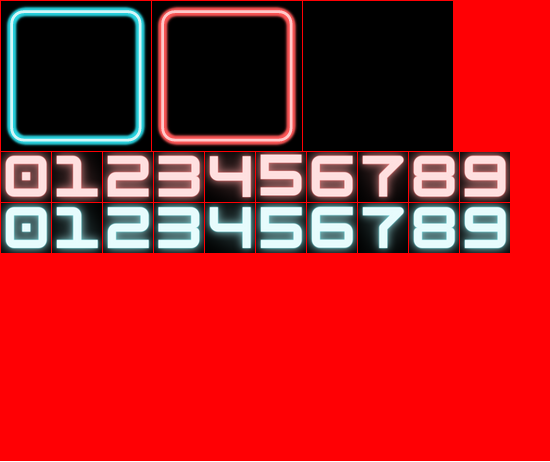
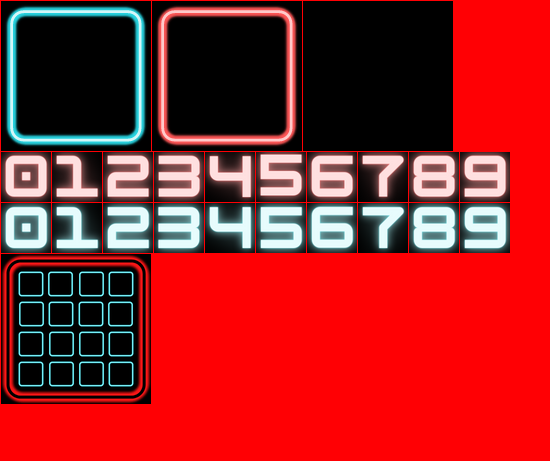
ActionListenerMotion1

Changed region(s): [[0.0, 0.5455, 0.2782, 0.8788]]

diff --git a/src/controller/PuzzleListener.java b/src/controller/PuzzleListener.java
@@ -2,14 +2,16 @@ package controller;
 
 import java.awt.event.ActionEvent;
 import java.awt.event.ActionListener;
+import java.awt.event.KeyEvent;
+import java.awt.event.KeyListener;
 import java.awt.event.MouseEvent;
 import java.awt.event.MouseListener;
 
 import view.BoardGame;
 
-public class PuzzleListener implements MouseListener{
+public class PuzzleListener implements MouseListener, KeyListener{
 	private BoardGame board_game;
-	
+
 	public PuzzleListener(BoardGame board_game) {
 		this.board_game = board_game;
 	}
@@ -19,26 +21,46 @@ public class PuzzleListener implements MouseListener{
 		for(int i=0; i<board_game.getBlock().length; i++) {
 			for(int j=0; j<board_game.getBlock()[0].length;j++) {
 				if(e.getSource() == board_game.getBlock()[i][j]) {
-					System.out.println("Đã click dô số: " + board_game.getBlock()[i][j].getNumber());
+					System.out.println("Đã click dô số: " + board_game.getBlock()[i][j].getNumber()+
+							" Tọa độ: " + i + " " + j + " Lenght :" + board_game.getBlock().length);
 					boolean exist=false;
-					for(int k=i-1 ; k<= i+1;k++) {
-						for(int l=j-1; l<= j+1; l++)
-						{
-							if(k>=0 && k<board_game.getBlock().length && l>=0 && l<board_game.getBlock()[0].length) {
-								
-								if(board_game.getBlock()[k][l].getNumber()==16) {
-									System.out.println("Da co so 16");
-									board_game.getBlock()[k][l].setState("cell_red");
-									board_game.getBlock()[k][l].setNumber(12);
-									board_game.getBlock()[k][l].repaint();
+					// Dò xem 4 góc có block null không
 
-									exist = true;
-							}
-						}
+					/** Trên*/
+					if(i-1>=0) {
+						if(board_game.getBlock()[i-1][j].getNumber() == (board_game.getBlock().length)*(board_game.getBlock()[0].length)) {
+							System.out.println("Có Block Null ở trên");
 						}
 					}
+					/** Dưới*/
+					if(i+1<board_game.getBlock().length) {
+						if(board_game.getBlock()[i+1][j].getNumber() == (board_game.getBlock().length)*(board_game.getBlock()[0].length)) {
+							System.out.println("Có Block Null ở dưới");
+							
+						}
+					}
+					/** Trái*/
+					if(j-1>=0) {
+						if(board_game.getBlock()[i][j-1].getNumber() == (board_game.getBlock().length)*(board_game.getBlock()[0].length)) {
+							System.out.println("Có Block Null bên trái");
+						}
+					}
+					/** Phải*/
+					if(j+1<board_game.getBlock().length) {
+						if(board_game.getBlock()[i][j+1].getNumber() == (board_game.getBlock().length)*(board_game.getBlock()[0].length)) {
+							System.out.println("Có Block Null bên phải");
+							//Lấy Block Null Đổi thuộc tính thành block vừa click
+							//board_game.setAttributeBlock(Block null, lấy thuộc tính right trong block vừa click, lấy thuộc tính state trong block vừa click, lấy thuộc tính number trong block vừa click)
+							board_game.setAttributeBlock(board_game.getBlock()[i][j+1], board_game.getBlock()[i][j].isRight(), board_game.getBlock()[i][j].getState(), board_game.getBlock()[i][j].getNumber());
+							//Lấy Block vừa click, đổi lại thành null
+							//board_game.setAttributeBlock(Block vừa click, phần còn lại y vậy)
+							board_game.setAttributeBlock(board_game.getBlock()[i][j], false, "null_cell", (board_game.getBlock().length)*(board_game.getBlock()[0].length));
+							board_game.getBlock()[i][j+1].repaint();
+						}
+					}
+
 					if(exist == true) {			
-//						String temp=board_game.getBlock()[i][j].;
+						//						String temp=board_game.getBlock()[i][j].;
 						int temp_i = board_game.getBlock()[i][j].getNumber();
 						board_game.getBlock()[i][j].setState("cell_null");
 						board_game.getBlock()[i][j].setNumber(16);
@@ -52,26 +74,61 @@ public class PuzzleListener implements MouseListener{
 	@Override
 	public void mousePressed(MouseEvent e) {
 		// TODO Auto-generated method stub
-//		System.out.println("Đang đè");
+		//		System.out.println("Đang đè");
 	}
 
 	@Override
 	public void mouseReleased(MouseEvent e) {
 		// TODO Auto-generated method stub
-//		System.out.println("Đã thả");
+		//		System.out.println("Đã thả");
 	}
 
 	@Override
 	public void mouseEntered(MouseEvent e) {
 		// TODO Auto-generated method stub
-//		System.out.println("Đã vào ô");
+		//		System.out.println("Đã vào ô");
 	}
 
 	@Override
 	public void mouseExited(MouseEvent e) {
 		// TODO Auto-generated method stub
-//		System.out.println("Đã ra khỏi ô");
-		
+		//		System.out.println("Đã ra khỏi ô");
+
 	}
-	
+
+	@Override
+	public void keyTyped(KeyEvent e) {
+
+	}
+
+	@Override
+	public void keyPressed(KeyEvent e) {
+		int key = e.getKeyCode();
+
+		if (key == KeyEvent.VK_LEFT) {
+			System.out.println("Trái");
+		}
+
+		if (key == KeyEvent.VK_RIGHT) {
+			System.out.println("Phải");
+		}
+
+		if (key == KeyEvent.VK_UP) {
+			//	    	if((board_game.getBlock()[board_game.getBlock().length-1][board_game.getBlock()[0].length-1].getNumber() == board_game.getBlock().length*board_game.getBlock()[0].length)) {
+			//	    		System.out.println("UP!");
+			//	    	}
+			board_game.setAttributeBlock(board_game.getBlockNull(), false, null, key);
+		}
+
+		if (key == KeyEvent.VK_DOWN) {
+			System.out.println("Dưới");
+		}
+	}
+
+	@Override
+	public void keyReleased(KeyEvent e) {
+		// TODO Auto-generated method stub
+
+	}
+
 }

diff --git a/src/view/BoardGame.java b/src/view/BoardGame.java
@@ -19,11 +19,13 @@ public class BoardGame extends JPanel{
 		PuzzleListener pl = new PuzzleListener(this);
 		for(int i=0; i<w; i++) {
 			for(int j=0; j<h; j++) {
-				block[i][j] = new JBlock("cell_true",count); //IN REDCELL + R1
+				block[i][j] = new JBlock("cell_false",count); //IN REDCELL + R1
 				block[i][j].addMouseListener(pl);
+				block[i][j].addKeyListener(pl);
 				if(count == w*h) {  // Biến đếm  = 4*4 = 16
-					block[i][j].setState("cell_null");
+					block[i][j] = new JBlock("cell_null",count);
 					block[i][j].addMouseListener(pl);
+					block[i][j].addKeyListener(pl);
 				}
 				this.add(block[i][j]);
 				count++;
@@ -55,34 +57,76 @@ public class BoardGame extends JPanel{
 		
 	}
 	
-	public void up () {
-		
-	}
 	
 	public int getNumber() {
 		return 1;
 	}
-
-//	public void up() {
-//		
-//	}
-//	
-//	public void down(int w, int h) {
-//		
-//	}
-//	
-//	public void left() {
-//		
-//	}
-//	
-//	public void right() {
-//		
-//	}
+//Key Listener
+	/**Kiểm tra xem có phải block_null hay không*/
+	public boolean isBlockNull(JBlock block) {
+		if(block.getState().equals("cell_null"))
+			return true;
+		return false;
+	}
+	
+	/**Lấy Block Null*/
+	public JBlock getBlockNull() {
+		//cho 2 for chạy khi nào gặp cell_null thì return block chứa tọa độ 
+		for(int i=0; i<block.length; i++) {
+			for(int j=0; j<block[0].length; j++) {
+				if(isBlockNull(block[i][j]))
+					return block[i][j];
+			}
+		}
+		System.out.println("Không có Block Null, trả về block đầu");
+		return block[0][0];
+	}
+	
+	/**Thay đổi thuộc tính block 
+	 * <p>
+	 * Block muốn đỗi
+	 * <p>
+	 * Block đã vào đúng ?  
+	 * <p>
+	 * Trạng thái của block 
+	 * <p>
+	 * Số trên block*/
+	public void setAttributeBlock(JBlock block,boolean bool, String state, int number) {
+		block.setRight(bool);
+		block.setState(state);
+		block.setNumber(number);
+	}
+	
+	public void up() {
+		
+	}
+	
+	public void down(int w, int h) {
+		
+	}
+	
+	public void left() {
+		
+	}
+	
+	public void right() {
+		
+	}
 //	MouseListener 
-//	public void swap () {
-//		
-//	}
-//	public boolean isExist (JBlock b) {
-//		for()
-//	}
+	public void swap () {
+		
+	}
+	public boolean isExist (JBlock block, int i, int j) {
+		for(int k = i-1; k<=i+1; k++) {
+			for(int l = j-1; l<=j+1; l++) {
+				if(k>=0 && k<this.block.length && l>=0 && l<this.block[0].length) {
+					if(block.getNumber() == this.block.length*this.block[0].length) {
+						System.out.println("Đã có 16");
+						return true;
+				}
+				}
+			}
+		}
+		return false;
+	}
 }

diff --git a/src/view/JBlock.java b/src/view/JBlock.java
@@ -36,7 +36,12 @@ public class JBlock extends JButton{
 			break;
 		case "cell_false":
 			g.drawImage(imgs.getList_imgs().get("blue_cell"), 0, 0, getPreferredSize().width, getPreferredSize().height, null);
-			g.drawImage(imgs.getList_imgs().get("b1"),  40, 40, 40, 40, null);
+			if(number<10) {
+				g.drawImage(imgs.getList_imgs().get("b"+String.valueOf(number)),  40, 40, 40, 40, null);				
+			}else {
+				g.drawImage(imgs.getList_imgs().get("b"+String.valueOf(number/10)),  20, 40, 40, 40, null);				
+				g.drawImage(imgs.getList_imgs().get("b"+String.valueOf(number%10)),  60, 40, 40, 40, null);	
+			}
 			break;
 		case "cell_null":
 			g.drawImage(imgs.getList_imgs().get("null_cell"), 0, 0, getPreferredSize().width, getPreferredSize().height, null);
@@ -63,5 +68,14 @@ public class JBlock extends JButton{
 		this.number = number;
 	}
 
+	public boolean isRight() {
+		return right;
+	}
+
+	public void setRight(boolean right) {
+		this.right = right;
+	}
+
 	
+
 }

diff --git a/src/model/Images.java b/src/model/Images.java
@@ -15,6 +15,7 @@ public class Images {
 		list_imgs = new HashMap<String, BufferedImage>();
 		try {
 			BufferedImage img = ImageIO.read(new File("src/resources/theme.png"));	
+			list_imgs.put("img_icon", img.getSubimage(1, 254, 150, 150));
 			list_imgs.put("blue_cell", img.getSubimage(1, 1, 150, 150));
 			list_imgs.put("red_cell", img.getSubimage(152, 1, 150, 150));
 			list_imgs.put("null_cell", img.getSubimage(303, 1, 150, 150));

diff --git a/src/view/Display.java b/src/view/Display.java
@@ -2,10 +2,13 @@ package view;
 
 import javax.swing.JFrame;
 
+import model.Images;
+
 public class Display extends JFrame{
 	private BoardGame boardGame;
 	public  Display (int w, int h) {
 		this.setTitle("Game Puzzle");
+		this.setIconImage(new Images().getList_imgs().get("img_icon"));
 //		this.setSize(600,600);
 		
 		boardGame = new BoardGame(w, h);
